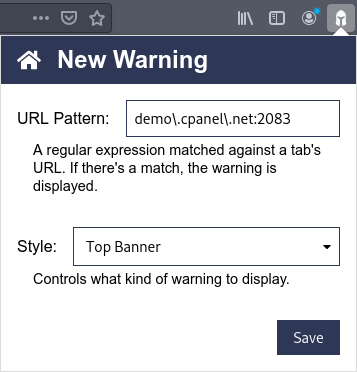
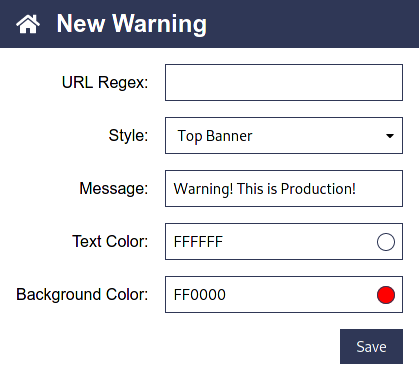
Update doc & screenshot for the warning screen

diff --git a/README.md b/README.md
@@ -50,19 +50,13 @@ Adding a warning to a site is very simple.
 
 1.  Open click on the Prod Guard icon in your browser to open the settings.
 
-    ![settings screen](doc/empty-home-screen.png)
+    ![home screen showing that there are no warnings configured](doc/empty-home-screen.png)
 
 1.  Click on __New Warning__ in the top right corner.
 
 1.  Fill in the details for the site of your choice.
 
     ![new warning screen](doc/new-warning-screen.png)
-
-    __URL Pattern__ is a regular expression that matches the URL of the website.
-    This lets you match the host, port, path, scheme, etc.
-
-    __Style__ is the type of warning that will be shown. Examples are shown
-    above.
 
 1.  Click on __Save__.
 
